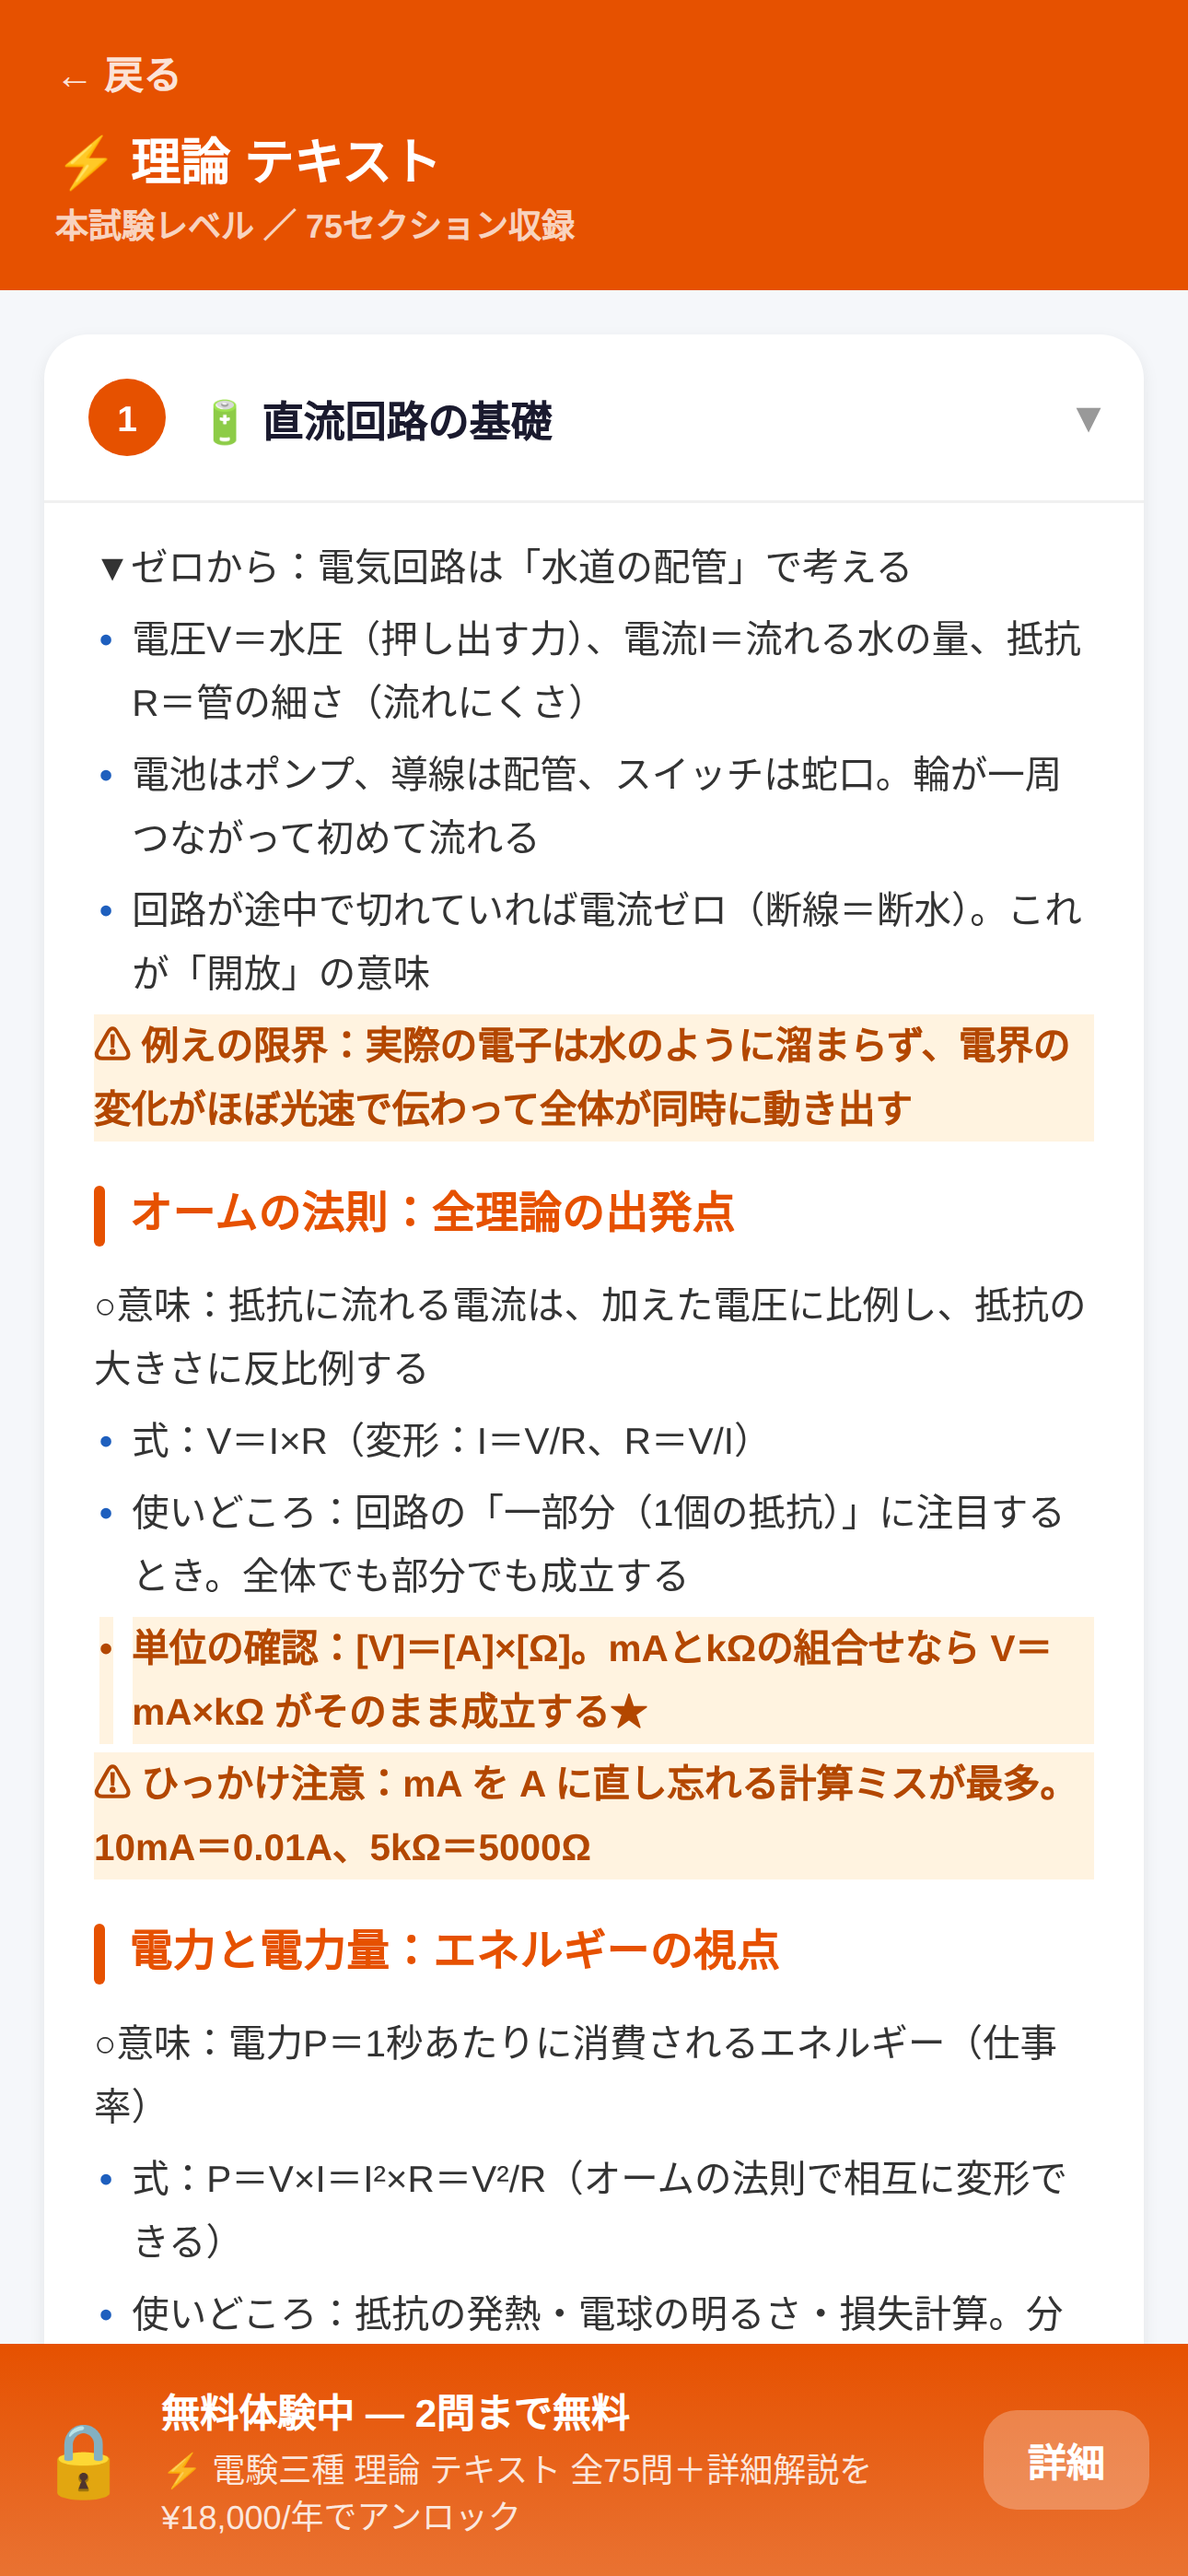
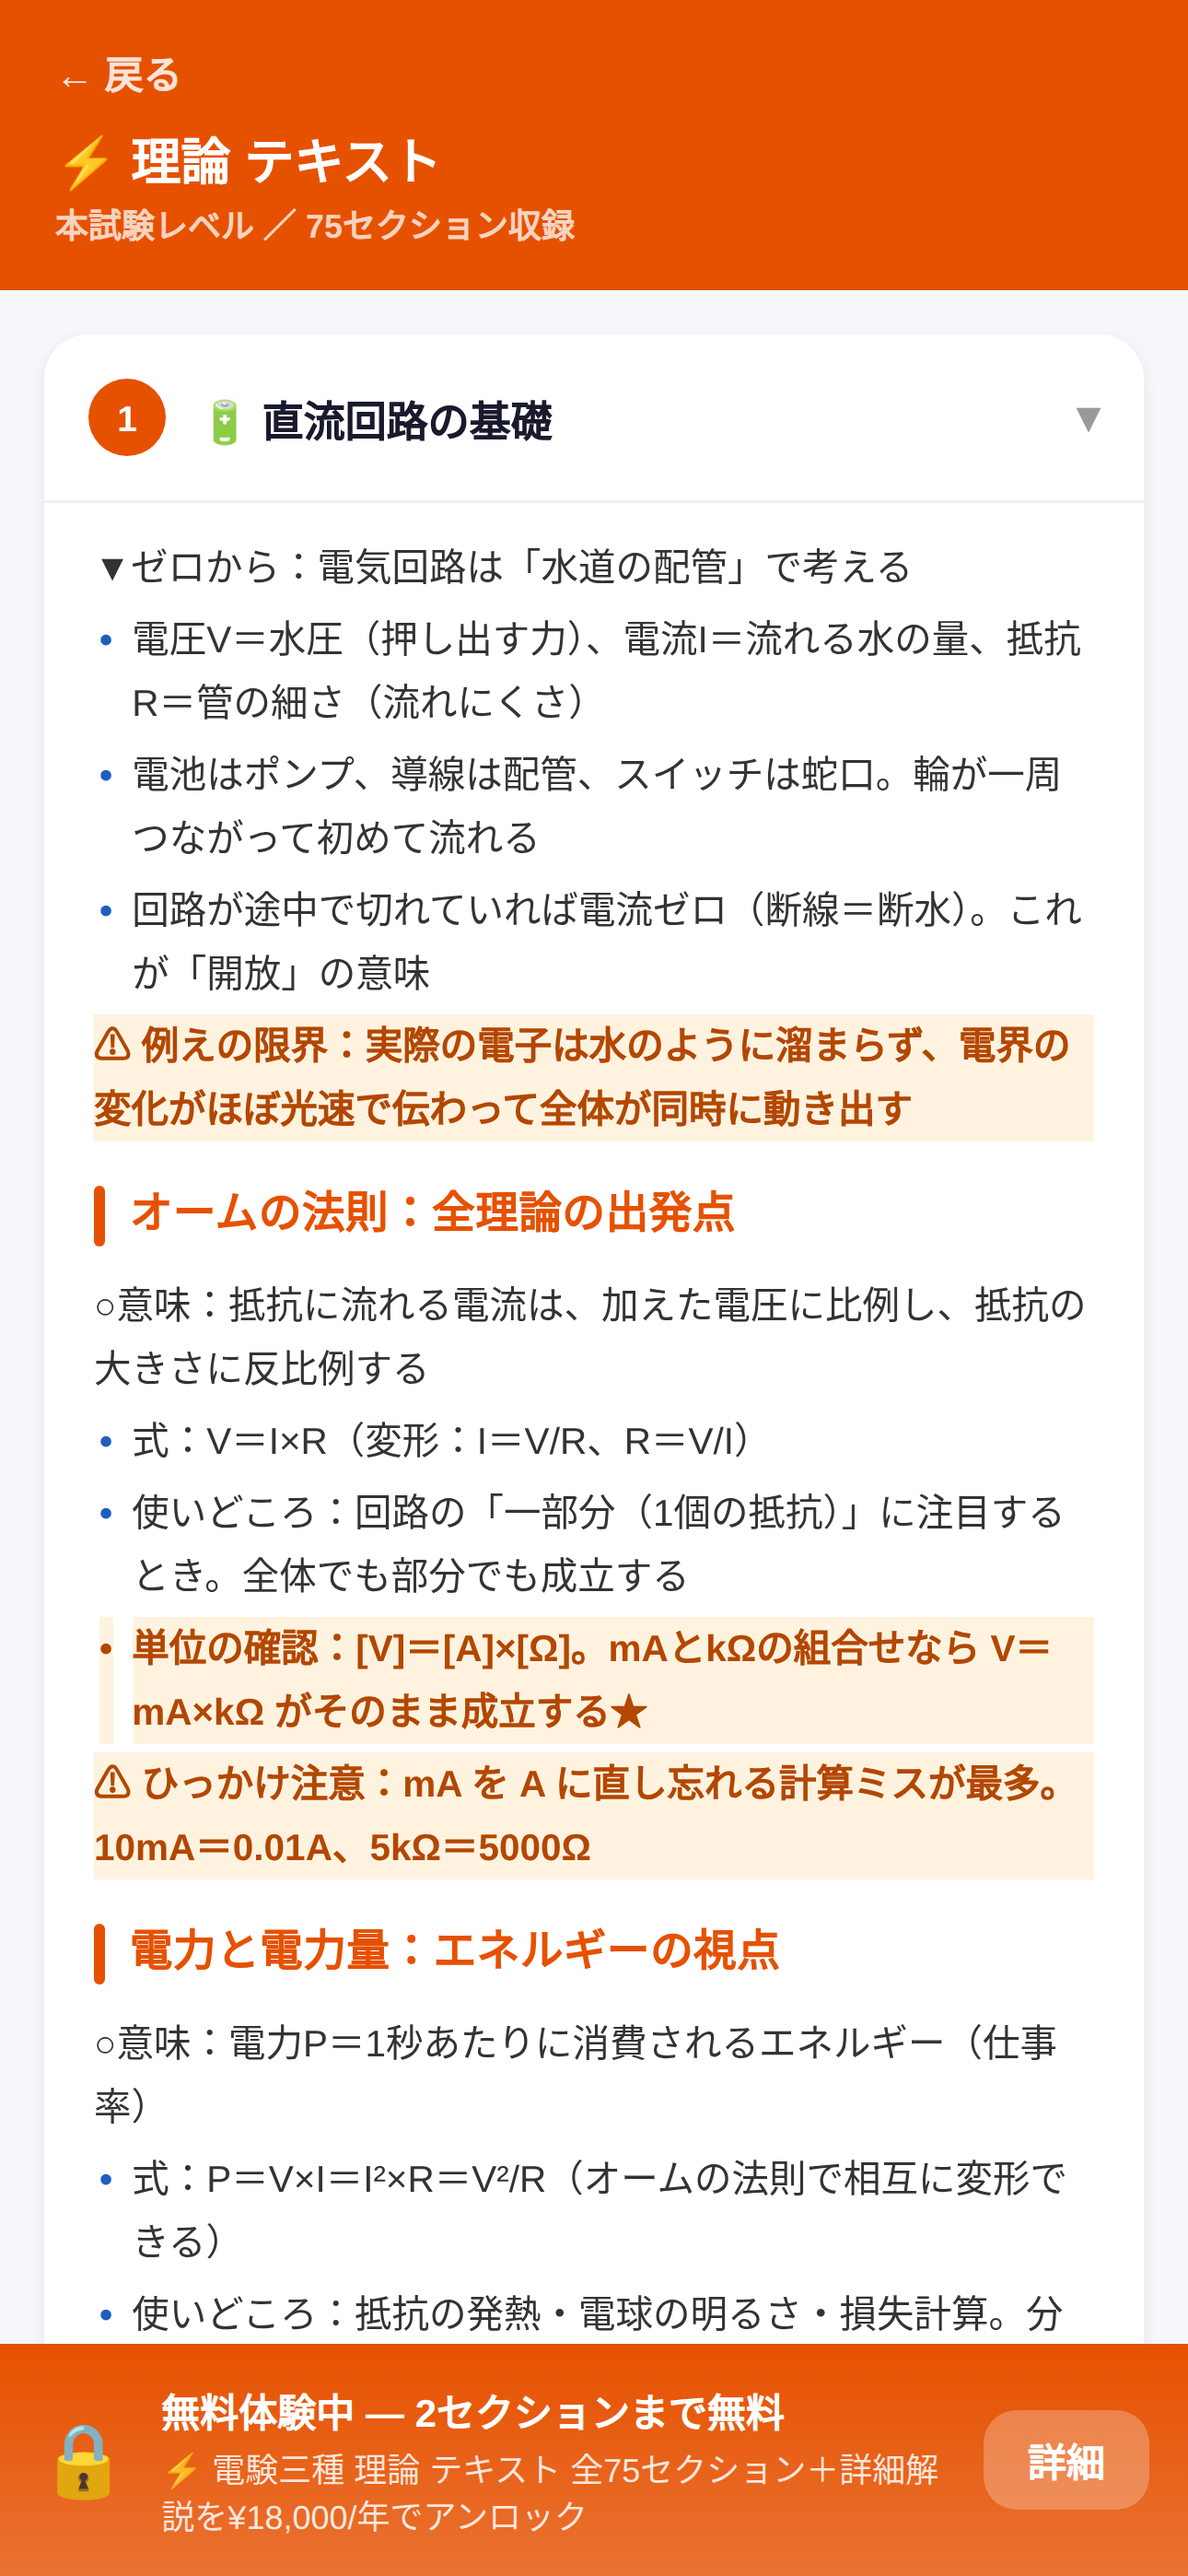
スモークテストのルートを修正、スクリーンショット10枚目を再撮影

Changed region(s): [[0.124, 0.9335, 0.7752, 0.9957]]

diff --git a/scripts/smoke.js b/scripts/smoke.js
@@ -10,7 +10,7 @@ const BASE = 'http://127.0.0.1:8899';
 
 // 資格トップ・科目別問題・教科書・模試を横断的に踏む
 const ROUTES = [
-  '/', '/eiken', '/eiken/2', '/juken', '/kouko',
+  '/', '/eiken', '/eiken/2kyu', '/eiken/3kyu', '/eiken/4kyu', '/eiken/taisaku',
   '/takkei', '/takkei/kenri', '/takkei/text', '/takkei/text/kenri', '/takkei/mogi',
   '/mansion', '/mansion/kubunsho', '/mansion/text', '/mansion/text/kubunsho',
   '/fp', '/fp/tax', '/fp/text', '/fp/text/tax',
@@ -26,6 +26,8 @@ const ROUTES = [
   '/shobo', '/shobo/horei_kyotsu', '/shobo/text', '/shobo/text/horei_kyotsu', '/shobo/mogi',
   '/cost', '/cost/gairon', '/cost/text', '/cost/text/gairon', '/cost/mogi', '/cost/ronbun',
   '/legal/tokushoho', '/legal/privacy', '/legal/terms',
+  // /juken（中学受験）と /kouko（高校受験）はホームから意図的にリンクしていない
+  // 未公開画面なので、到達不能であることが正しい。ここでは踏まない。
   '/this-route-does-not-exist',   // 404フォールバックが出るか
 ];
 
@@ -62,7 +64,7 @@ const ROUTES = [
     if (bad.length) { console.log('  [NG] ' + r + ' : ' + bad[0]); ng++; }
     else if (isEmpty) { console.log('  [NG] ' + r + ' : 画面が空（' + text.length + '文字）'); ng++; }
     else if (isBuilding) { console.log('  [NG] ' + r + ' : 「準備中／作成中」が表示されている'); ng++; }
-    else console.log('  [ok] ' + r.padEnd(34) + text.split('\n')[1] ? '' : '');
+    else console.log('  [ok] ' + r.padEnd(34) + ' ' + text.split('\n').filter(l => l.trim())[1]?.slice(0, 30));
   }
 
   await browser.close();
